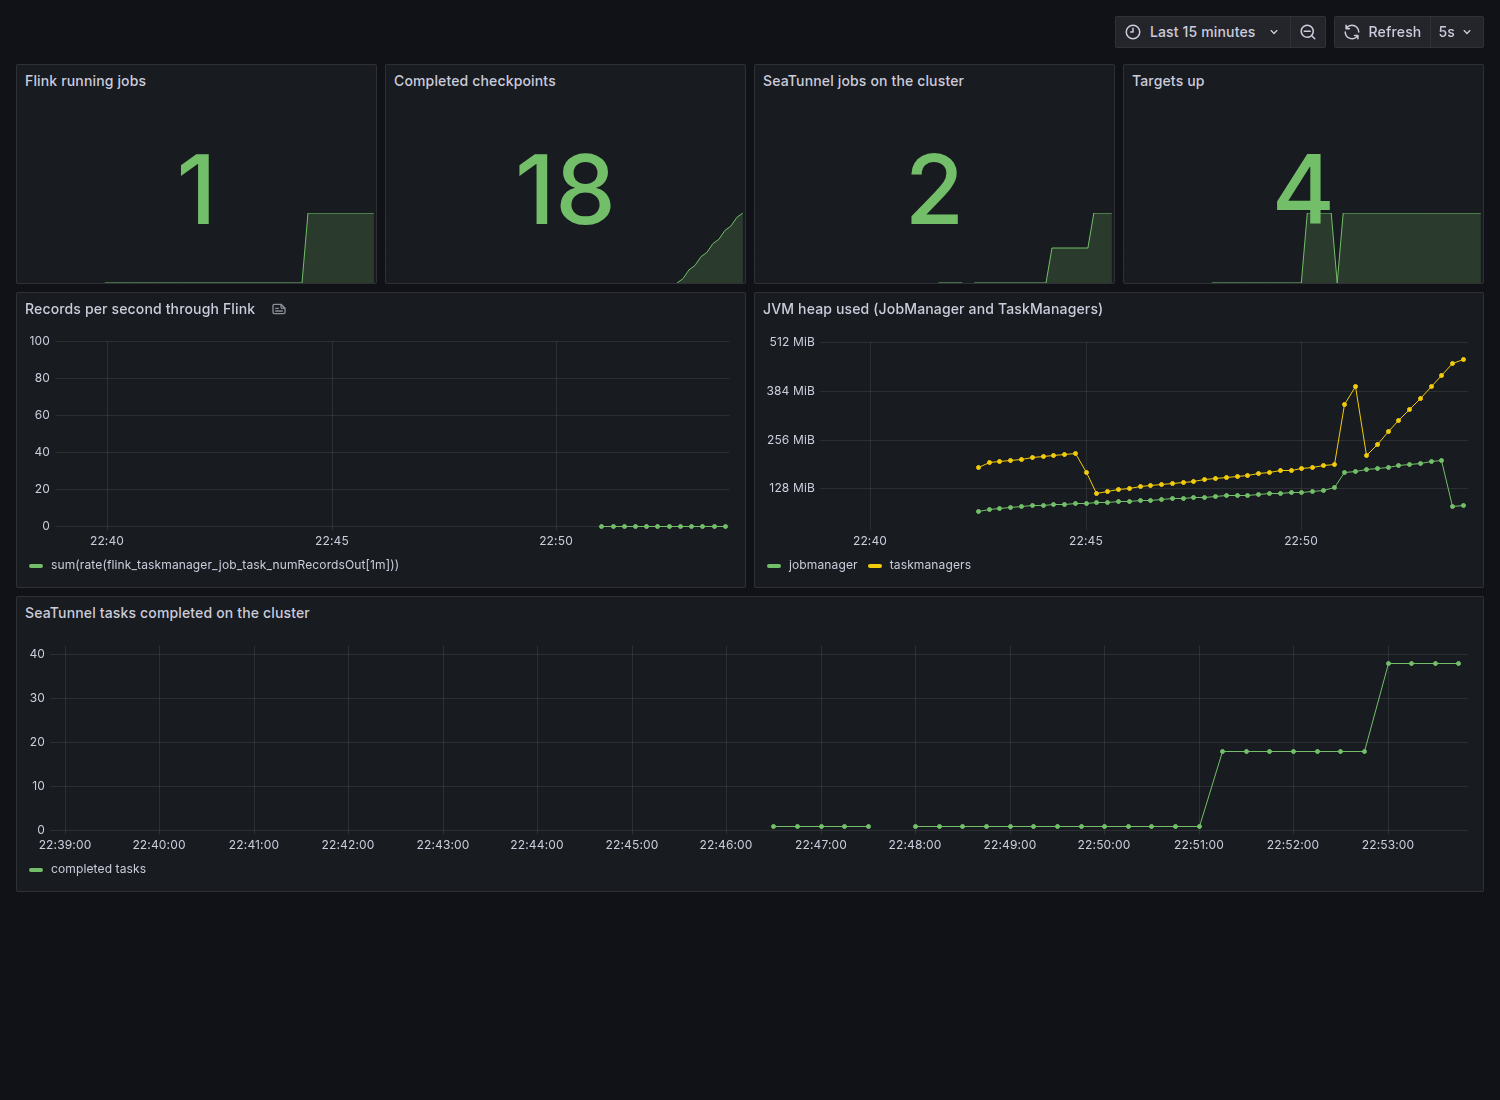
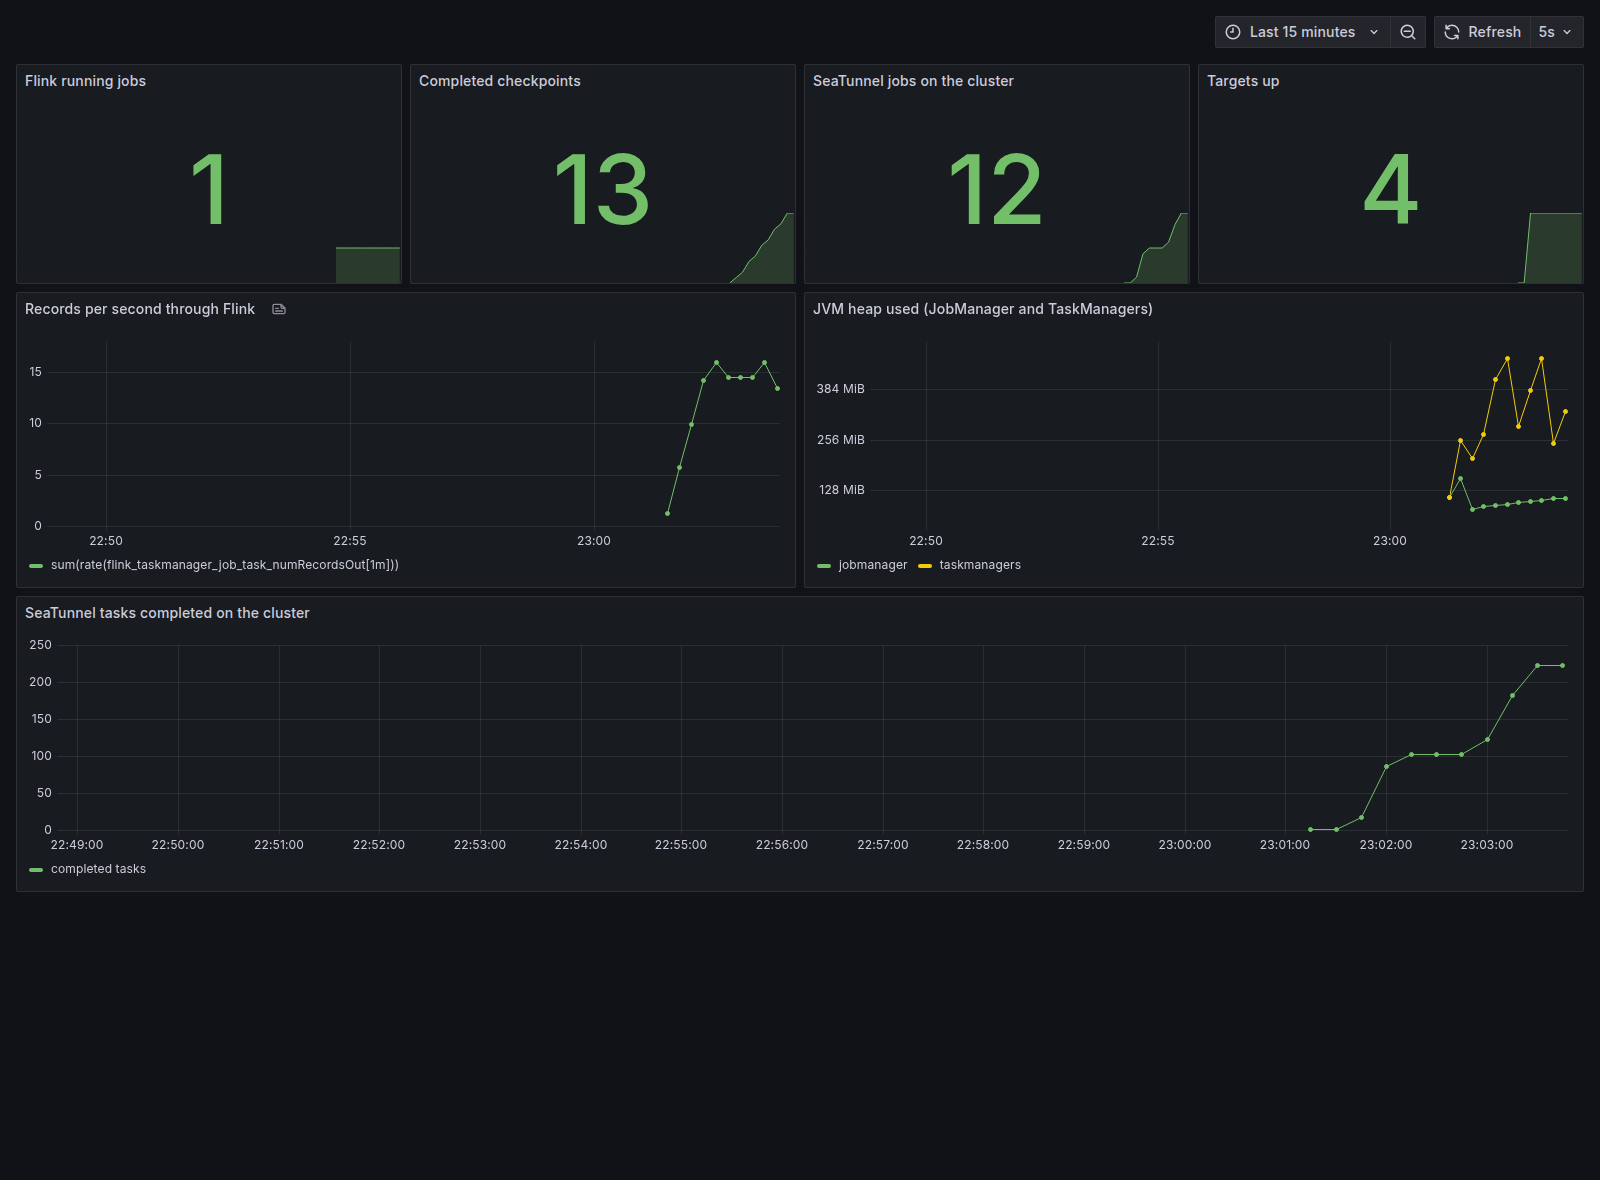
Capture Grafana screenshots under load for the README
Regenerate the dashboard screenshot with real activity flowing (continuous CDC inserts and repeated SeaTunnel jobs) so the throughput, checkpoint and completed-task panels show movement, and add a focused records-per-second view.

diff --git a/README.md b/README.md
@@ -224,7 +224,9 @@ Prometheus (http://localhost:9090) scrapes both. Open Grafana at http://localhos
 
 ![Grafana dashboard over the Flink and SeaTunnel metrics](docs/images/grafana-dashboard.png)
 
-Run `make submit` then `make seatunnel-iceberg` and watch the dashboard: the Flink job count, checkpoints and SeaTunnel completed tasks all move.
+The charts react to real activity. Submit the CDC job, push some changes through MariaDB and run a few SeaTunnel jobs, and the Flink throughput, checkpoints and SeaTunnel completed-task counts all climb:
+
+![Records per second flowing through the Flink CDC job](docs/images/grafana-throughput.png)
 
 ## SeaTunnel image smoke test
 